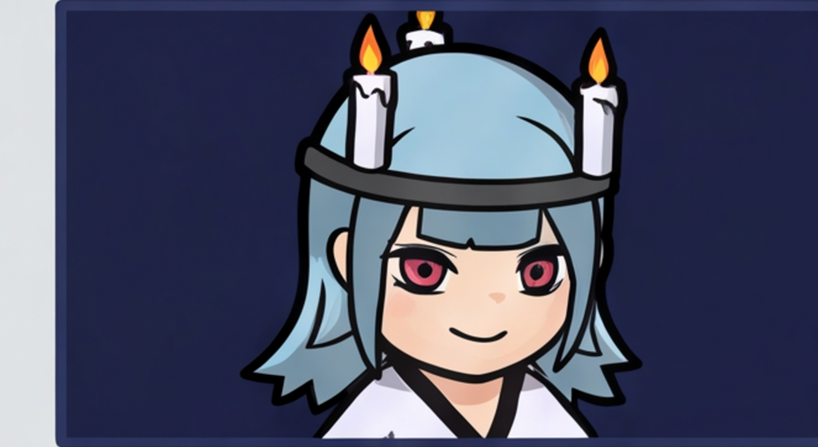
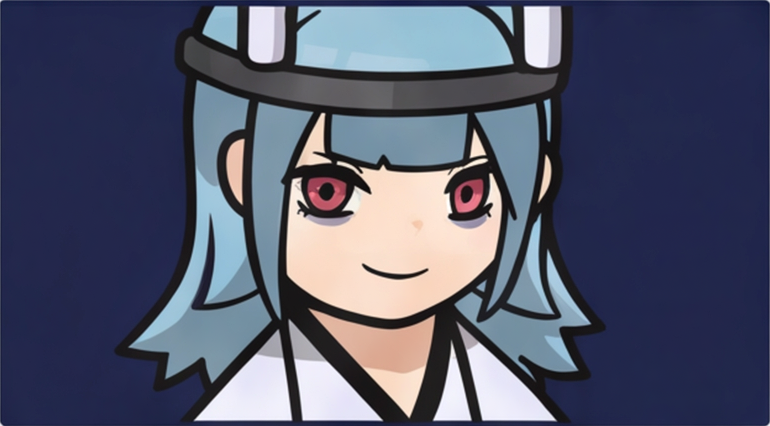
Seori sheet regenerated with correct tall FULL-BODY row; panels re-split
The proportion reference (image 2 = previous sheet's tall rows) worked:
Row 2 is now true 7-8-head anime proportions and Row 3 pairs include
the tall figure. Crop boxes recalibrated to the new render (expression
cells measured from the navy cell backgrounds), 22 panels re-cut.

Claude-Session: https://claude.ai/code/session_01FEiGPhFPN5KGXnneoz4FGp

diff --git a/scripts/split_sheet.py b/scripts/split_sheet.py
@@ -19,14 +19,14 @@ from PIL import Image
 # キャラ番号ごとのパネル座標定義（元画像ピクセル座標）
 PANEL_DEFS = {
     "032": {
-        # v3 固定レイアウト (3392x5056) — 枠検出により較正
-        "1-1": (10, 90, 1130, 845), "1-2": (1140, 90, 2260, 845), "1-3": (2270, 90, 3382, 845),
-        "2-1": (10, 950, 1130, 1698), "2-2": (1140, 950, 2260, 1698), "2-3": (2270, 950, 3382, 1698),
-        "3-F": (10, 1805, 1130, 2528), "3-S": (1140, 1805, 2260, 2528), "3-M": (2270, 1805, 3382, 2528),
-        "4-1": (30, 2663, 848, 3110), "4-2": (878, 2663, 1696, 3110), "4-3": (1726, 2663, 2544, 3110), "4-4": (2574, 2663, 3382, 3110),
-        "4-5": (30, 3140, 848, 3585), "4-6": (878, 3140, 1696, 3585), "4-7": (1726, 3140, 2544, 3585), "4-8": (2574, 3140, 3382, 3585),
-        "5-1": (10, 3720, 1130, 4489), "5-2": (1140, 3720, 2260, 4489), "5-3": (2270, 3720, 3382, 4489),
-        "6-32": (10, 4597, 1690, 5050), "6-48": (1700, 4597, 3382, 5050),
+        # v3b 固定レイアウト (3392x5056) — 頭身修正版で再較正
+        "1-1": (10, 115, 1130, 835), "1-2": (1140, 115, 2260, 835), "1-3": (2270, 115, 3382, 835),
+        "2-1": (10, 880, 1130, 1845), "2-2": (1140, 880, 2260, 1845), "2-3": (2270, 880, 3382, 1845),
+        "3-F": (10, 1890, 1130, 2750), "3-S": (1140, 1890, 2260, 2750), "3-M": (2270, 1890, 3382, 2750),
+        "4-1": (85, 2858, 855, 3284), "4-2": (903, 2858, 1672, 3284), "4-3": (1721, 2858, 2489, 3284), "4-4": (2537, 2858, 3307, 3284),
+        "4-5": (85, 3332, 855, 3758), "4-6": (903, 3332, 1672, 3758), "4-7": (1721, 3332, 2489, 3758), "4-8": (2537, 3332, 3307, 3758),
+        "5-1": (10, 3870, 1130, 4480), "5-2": (1140, 3870, 2260, 4480), "5-3": (2270, 3870, 3382, 4480),
+        "6-32": (10, 4520, 1690, 5050), "6-48": (1700, 4520, 3382, 5050),
     },
 }
 
